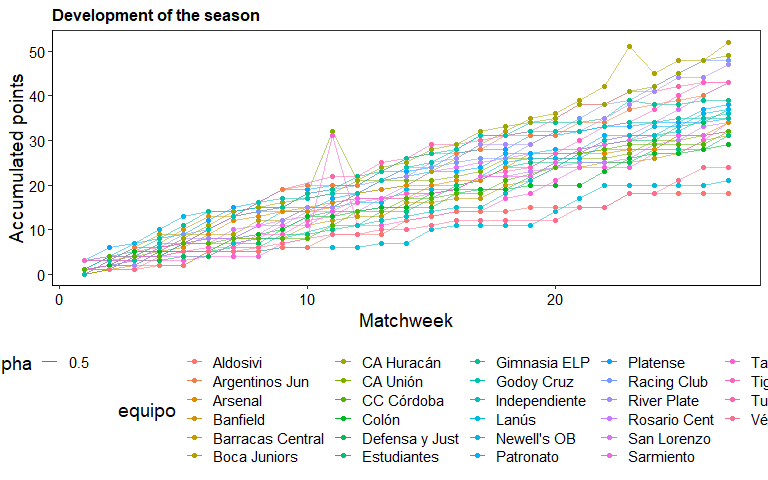
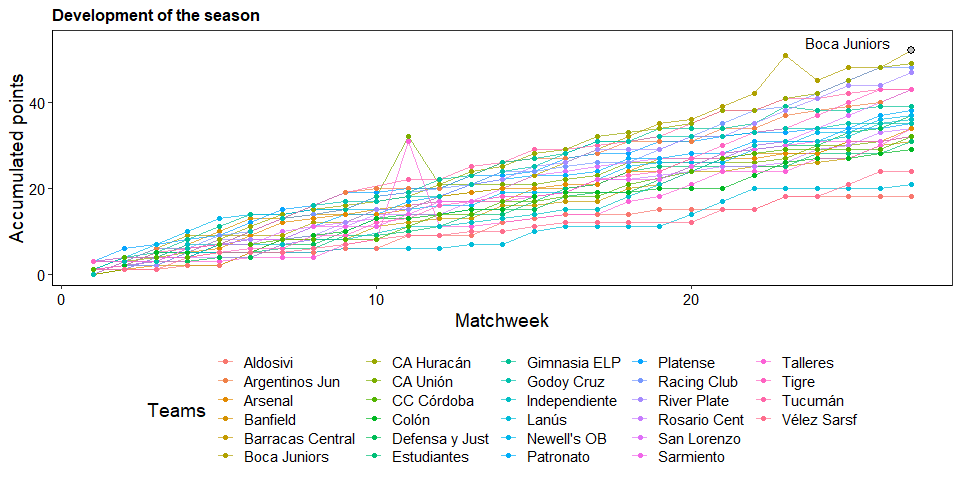
actualizo R y RMD

diff --git a/LPF_arg.md b/LPF_arg.md
@@ -1,7 +1,7 @@
 Argentinean League Football Analysis (2016-2022)
 ================
 
-### Import libraries
+### Import libraries and data
 
 ``` r
 library(ggplot2)
@@ -104,11 +104,14 @@ the_order <- temp_df$temporada
 ## 3.- Heatmap: goals per week of the season
 
 This heat map shows the number of goals scored by match week per season.
-We may get several insights from it. \* The last match week in the last
-two seasons showed a whooping number of goals scored in comparison to
-the rest of the seasons. \* Because of different formats applied to the
-Argentinean league, the length of the season was never kept constant. \*
-The 2019-20 season was, definitively, the shortest due to the pandemic.
+We may get several insights from it.
+
+- The last match week in the last two seasons showed a whooping number
+  of goals scored in comparison to the rest of the seasons.
+- Because of different formats applied to the Argentinean league, the
+  length of the season was never kept constant.
+- The 2019-20 season was, definitively, the shortest due to the
+  pandemic.
 
 <img src="LPF_arg_files/figure-gfm/unnamed-chunk-10-1.png" style="display: block; margin: auto;" />
 
@@ -140,6 +143,15 @@ season:
 
 Are there teams that are booked more than others?
 
+- For yellow cards: the most intensive seasons seem to be 2016-17 and
+  2022 overall
+- For the former, several teams have accumulated a high number of yellow
+  cards, while for the latter Boca Juniors seems to have the excessive
+  amount fo cards
+- For red ones, Rosario Central appears to be the most aggressive one
+  during the 2016-17 season while San Lorenzo repeats that trend during
+  the 2021.
+
 ``` r
 #-------------------
 #   Data processing
@@ -167,7 +179,9 @@ tarj$rojas = tarj$rojas.x + tarj$rojas.y
 
 ## 3.- Referee’s cards performance
 
-Are there more/less strict referees in terms of bookings?
+Are there more/less strict referees in terms of bookings? Not all of
+them delivered justice in every season, but some of them appear to be
+more prone to showing yellow and red cards.
 
 ``` r
 #-------------------
@@ -193,7 +207,8 @@ roja_df <- arbitros %>%  arrange(rojas_totales)
 
 # PREDICTING RESULTS WITH STATISTICAL MODELLING
 
-We’re going to use the last season available for the most updated data.
+We’re going to use the last season available for the most updated data
+(i.e. season 2022).
 
 ## 1.- Season development and winner
 
@@ -228,7 +243,6 @@ for (i in unique(data$local)) {
         
 GANADOR = season_development[which.max(season_development$puntos_acum),]$equipo
 
-
 #-------------------
 #   PLOT
 #-------------------
@@ -236,8 +250,8 @@ GANADOR = season_development[which.max(season_development$puntos_acum),]$equipo
 EVOL.TEMPORADA =
 ggplot(data = season_development) + 
                 geom_line(aes(x=semana, y=puntos_acum, 
-                          color=equipo,
-                          alpha=0.5)) +
+                          color=equipo
+                          ), alpha=0.7) +
                 geom_point(aes(x=semana, y=puntos_acum, 
                            color=equipo))+
     theme_bw() + 
@@ -246,7 +260,12 @@ ggplot(data = season_development) +
     ylab("Accumulated points")+
     ggtitle("Development of the season")+
     theme(legend.position = 'bottom')+
-    labs(fill = "Teams")
+    labs(color='Teams') +
+    geom_point(aes(x=max(semana),y=max(puntos_acum)), fill='grey',colour="black",
+                   shape=21, size=2.5) +
+    annotate(geom='text', 
+             x=max(season_development$semana)-2, 
+             y=max(season_development$puntos_acum) +2, label=GANADOR,color="black")
 ```
 
 <img src="LPF_arg_files/figure-gfm/unnamed-chunk-25-1.png" style="display: block; margin: auto;" />
